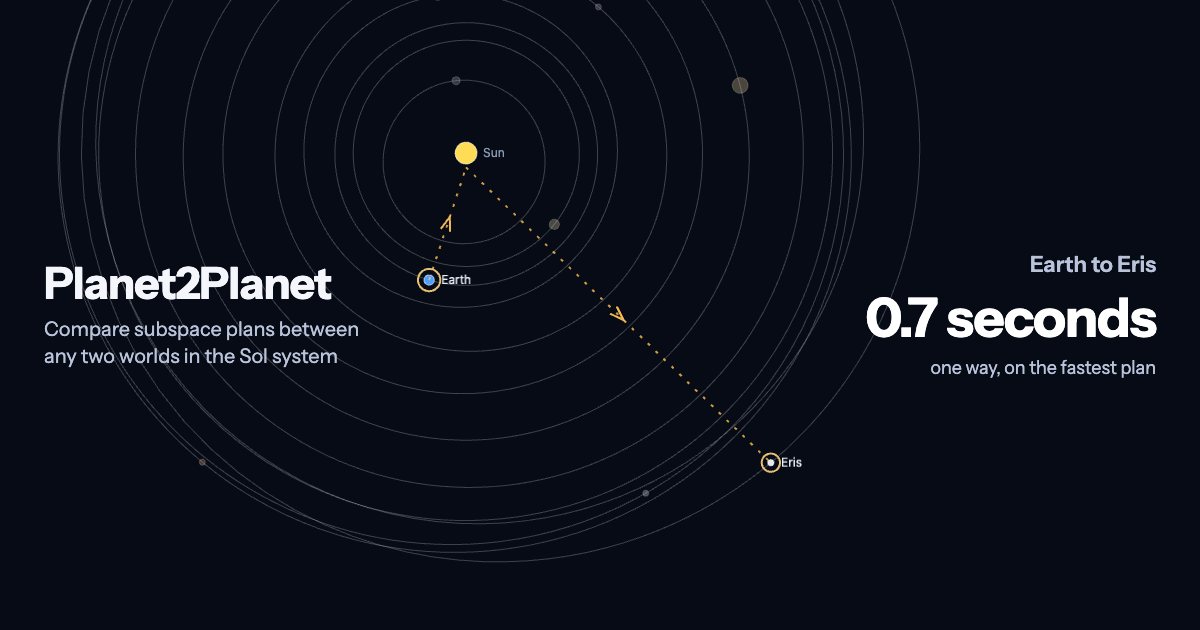
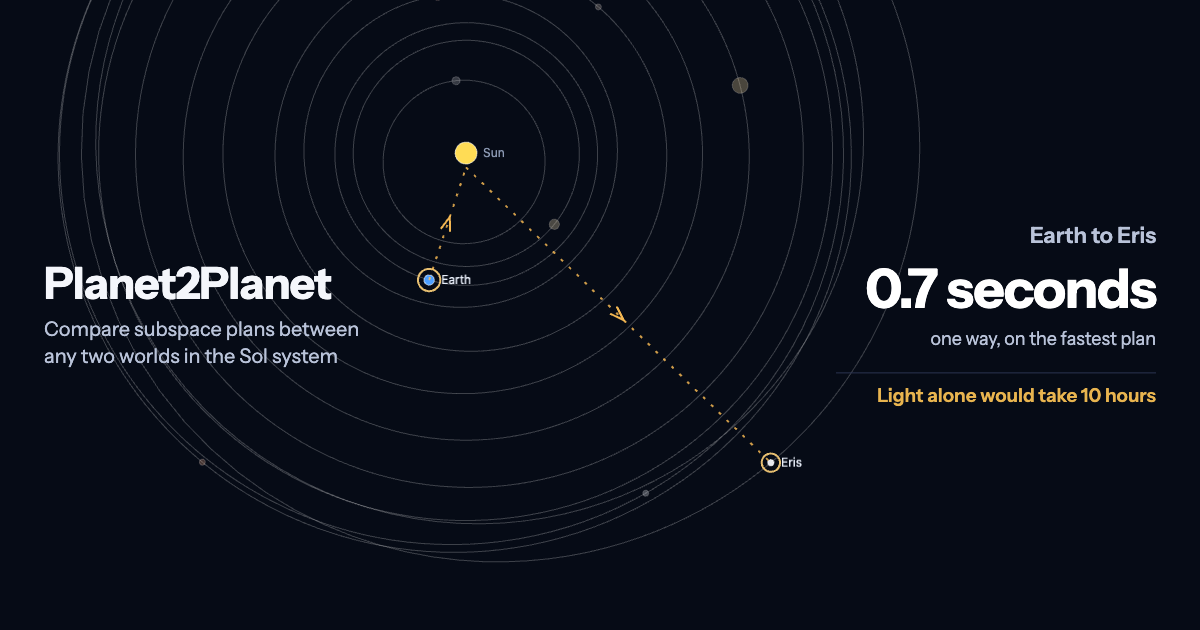
Add the light-speed comparison to the share image

Changed region(s): [[0.7092, 0.3619, 0.9867, 0.6635]]

diff --git a/frontend/src/pages/SharePreviewPage.tsx b/frontend/src/pages/SharePreviewPage.tsx
@@ -8,6 +8,7 @@ const MapView = lazy(() => import('../map/MapView'));
 
 const FROM = 'earth';
 const TO = 'eris';
+const LIGHT_KM_PER_SECOND = 299_792.458;
 
 /**
  * The picture used when the site is shared as a link. It is a fixed 1200 by 630 composition of the
@@ -77,6 +78,11 @@ export default function SharePreviewPage() {
           </p>
           <p className={styles.figure}>{formatDuration(best.latencyMs.now / 1000)}</p>
           <p className={styles.caption}>one way, on the fastest plan</p>
+          {quote.data && (
+            <p className={styles.contrast}>
+              Light alone would take {formatDuration(quote.data.route.distanceKm / LIGHT_KM_PER_SECOND)}
+            </p>
+          )}
         </div>
       )}
     </div>

diff --git a/frontend/src/pages/SharePreviewPage.module.css b/frontend/src/pages/SharePreviewPage.module.css
@@ -54,3 +54,11 @@
   font-size: 18px;
   color: #b9c3d9;
 }
+.contrast {
+  margin: 10px 0 0;
+  padding-top: 10px;
+  border-top: 1px solid #2a3350;
+  font-size: 19px;
+  font-weight: 600;
+  color: #e8b44f;
+}
